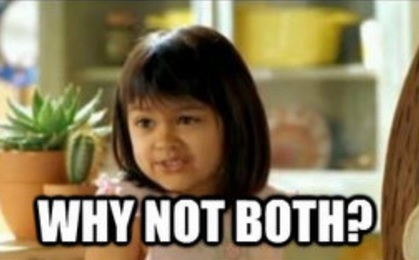
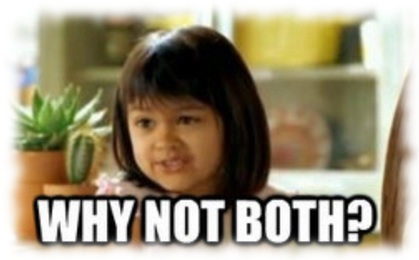
Whynotboth update

Changed region(s): [[0.0, 0.0, 1.0, 1.0]]

diff --git a/_includes/instacard.html b/_includes/instacard.html
@@ -6,7 +6,6 @@
   <div class="card-body">
     <h4 class="card-title"><a href="https://www.instagram.com/runnermate.eu/">Follow me on instagram</a></h4>
     <p>Or maybe <a href="https://www.facebook.com/RunnerMate/">facebook</a>?</p>
-    <p>Why not both?!</p>
-    <img src="{{site.url}}/assets/Why_not_both.png" style="width:300px">
+    <img src="{{site.url}}/assets/Why_not_both.png" style="width:100%">
   </div>
 </div>
